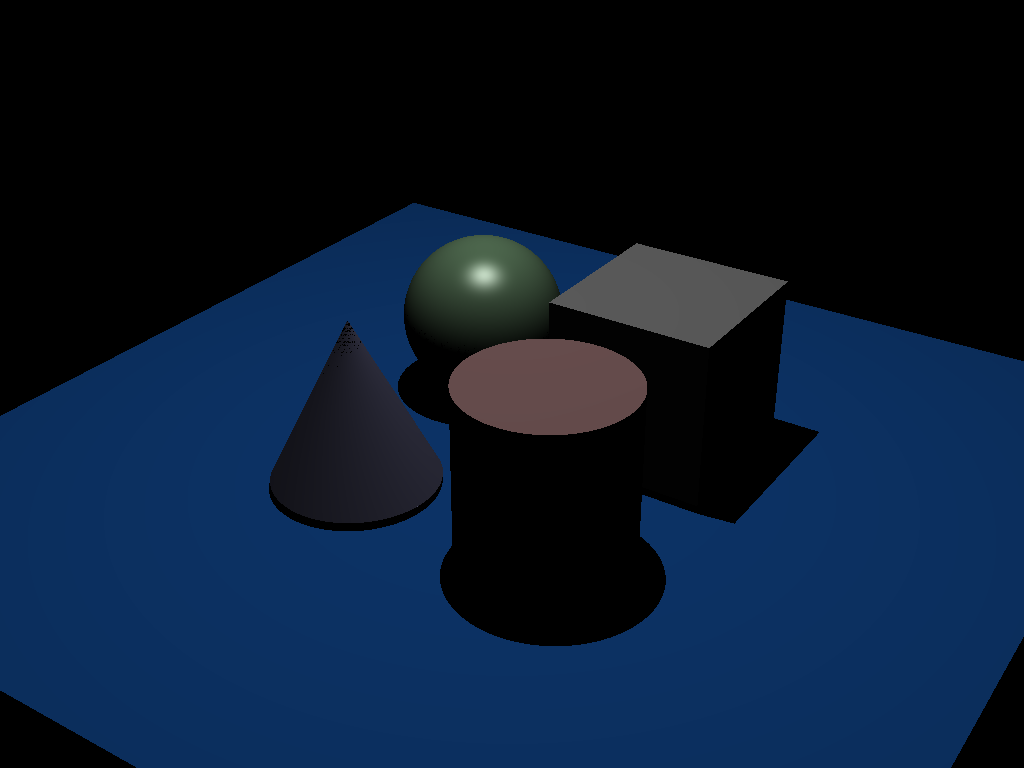
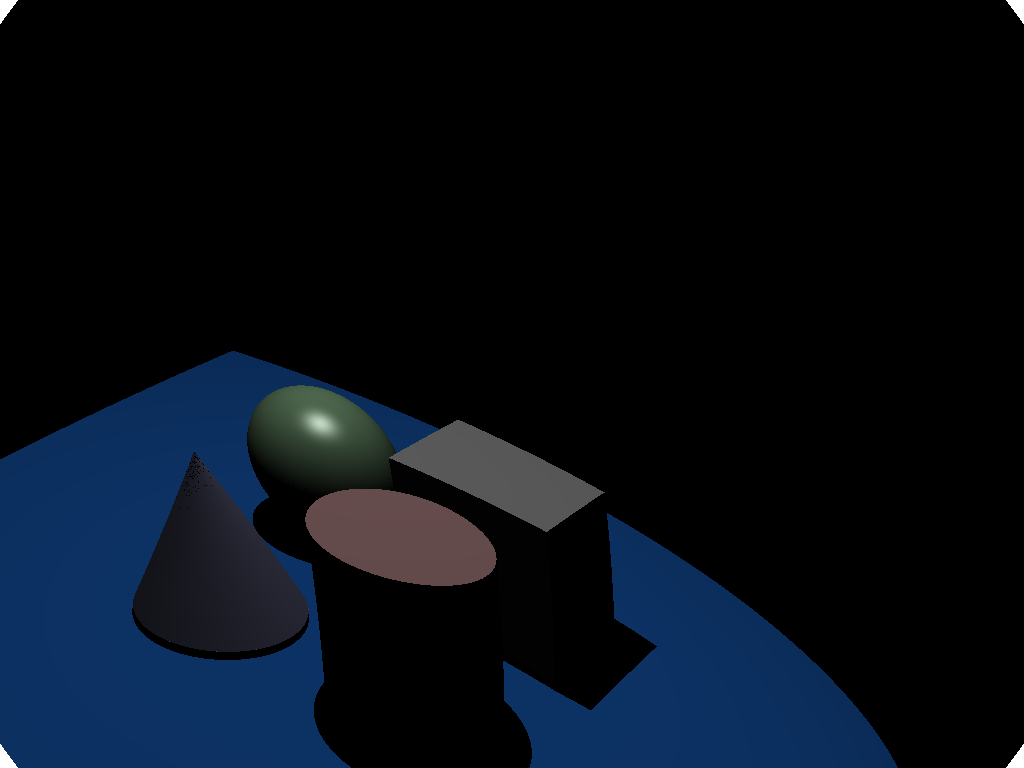
feat: lens assemblies rough draft completed

diff --git a/src/lenses/lensassemblies.cpp b/src/lenses/lensassemblies.cpp
@@ -1,0 +1,187 @@
+#include <algorithm>
+#include <cmath>
+#include <glm/glm.hpp>
+#include <iostream>
+#include <ostream>
+#include <stdlib.h>
+#include <tuple>
+#include <vector>
+
+// Lens constants
+typedef struct Lens {
+    float lensRadius;
+    float eta;
+    float thickness; // representing distance in assembly from previous element
+        // to this one
+} lens_t;
+
+lens_t globalLens1 = {0.2, 1.1, 0.5};
+// lens_t globalLens2 = {-0.5, 1.2, 0.5};
+std::vector<lens_t> lenses = {globalLens1};
+// std::vector<lens_t> lenses = {globalLens1, globalLens2};
+
+typedef struct Aperture {
+    float apertureRadius;
+} aperture_t;
+
+Aperture aperture = {0.5};
+
+/**
+ * @brief SphereIntersect: finds intersection points between a ray and radius
+ * 0.5 sphere
+ * @param point: the starting point of the ray in object space
+ * @param direction: the direction of the ray in object space
+ * @return the t value for the parameterized ray that intersects the sphere
+ */
+std::vector<float> LensSphereIntersect(glm::vec3 point, glm::vec3 direction,
+                                       float radius, float zOffset) {
+    // define useful constants
+    float px = point[0], py = point[1],
+        pz = point[2] - zOffset; // offset as moved back along z axis starting
+        // position essentially
+
+    float dx = direction[0], dy = direction[1], dz = direction[2];
+    // std::cout << px << std::endl;
+    // std::cout << py << std::endl;
+    // std::cout << pz << std::endl;
+    // std::cout << "just did p" << std::endl;
+    // std::cout << dx << std::endl;
+    // std::cout << dy << std::endl;
+    // std::cout << dz << std::endl;
+    // std::cout << "just did d" << std::endl;
+    // collect all t values
+    std::vector<float> tValues = {};
+
+    // define quadratic formula values and the discriminant
+    float A = dx * dx + dy * dy + dz * dz;
+    float B = 2.f * px * dx + 2.f * py * dy + 2.f * pz * dz;
+    float C = px * px + py * py + pz * pz - (radius * radius);
+    float D = B * B - 4.f * A * C;
+    if (D > 0) { // two intersection points
+        float t1 = (-B + sqrt(D)) / (2.f * A);
+        float t2 = (-B - sqrt(D)) / (2.f * A);
+        // first three cases should never happen here
+        if (t1 < 0.f && t2 < 0.f) {
+        } else if (t1 < 0.f) {
+            tValues.push_back(t2);
+        } else if (t2 < 0.f) {
+            tValues.push_back(t1);
+        } else { // both intersections are valid
+            tValues.push_back(t1);
+            tValues.push_back(t2);
+        }
+    } else if (D < 0) { // zero intersection points (should not happen here)
+    } else {            // D = 0 // one intersection point
+        float potentialT = (float)(-B) / (2 * A);
+        if (potentialT >= 0.f) // ensure nonegative t value
+            tValues.push_back(potentialT);
+    }
+    return tValues;
+}
+
+/**
+ * @brief SphereNormal: computes the normal vector for a sphere in object space
+ * @param intersection: the intersection point in object space
+ * @return a normal vector to the object in object space
+ */
+glm::vec4 LensSphereNormal(glm::vec3 intersection) {
+    // compute and return the object normal
+    return glm::vec4(2.f * intersection[0], 2.f * intersection[1],
+                     2.f * intersection[2], 0.f);
+}
+
+// refraction and direction transmittance
+glm::vec3 refraction(glm::vec3 incidentVector, glm::vec3 normalVector,
+                     float etaRatio, float cosineThetaIncident,
+                     float cosineThetaTransmit) {
+    glm::vec3 transmittedDirection =
+        etaRatio * -incidentVector +
+                                     (etaRatio * cosineThetaIncident - cosineThetaTransmit) * normalVector;
+    return transmittedDirection;
+}
+
+std::tuple<glm::vec3, glm::vec3, bool>
+computeLensAdjustedDirection(glm::vec3 initialDirection,
+                             glm::vec3 initialPosition, Lens &lens,
+                             float cumulativeThickness) {
+    // get values for refraction purposes
+    // std::cout << initialDirection.x << std::endl;
+    // std::cout << initialDirection.y << std::endl;
+    // std::cout << initialDirection.z << std::endl;
+    // std::cout << "" << std::endl;
+    // std::cout << initialPosition.x << std::endl;
+    // std::cout << initialPosition.y << std::endl;
+    // std::cout << initialPosition.z << std::endl;
+    // std::cout << "" << std::endl;
+
+    std::vector<float> tValues =
+        LensSphereIntersect(initialPosition, initialDirection, lens.lensRadius,
+                                                     cumulativeThickness + lens.thickness);
+    // std::cout << tValues.size() << std::endl;
+    // std::cout << tValues[0] << std::endl;
+    // std::cout << tValues[1] << std::endl;
+
+    if (tValues.size() > 0) {
+        float t = lens.lensRadius > 0
+                      ? *std::max_element(tValues.begin(), tValues.end())
+                      : *std::min_element(tValues.begin(), tValues.end());
+        glm::vec3 intersectionPoint = initialDirection * t + initialPosition;
+        // std::cout << "t:" << t << std::endl;
+        glm::vec3 lensNormal = LensSphereNormal(
+            intersectionPoint - (cumulativeThickness + lens.thickness));
+        // std::cout << "lensnormal" << std::endl;
+        // std::cout << lensNormal.x << std::endl;
+        // std::cout << lensNormal.y << std::endl;
+        // std::cout << lensNormal.z << std::endl;
+
+        float cosineThetaIncident = glm::dot(initialDirection, lensNormal);
+        float etaRatio =
+            1.0 / lens.eta; // implicit assumption going from air to lens
+
+        // use Snell's law to get the new direction (see citation)
+        float sineSquaredThetaIncidentInitial =
+            std::max(0.f, 1.f - cosineThetaIncident * cosineThetaIncident);
+        float sineSquaredThetaIncidentAdjusted =
+            etaRatio * etaRatio * sineSquaredThetaIncidentInitial;
+        float cosineThetaTransmit = std::sqrt(1 - sineSquaredThetaIncidentAdjusted);
+        // std::cout << "\nangles" << std::endl;
+
+        // std::cout << cosineThetaIncident << std::endl;
+        // std::cout << sineSquaredThetaIncidentInitial << std::endl;
+        // std::cout << sineSquaredThetaIncidentAdjusted << std::endl;
+        // std::cout << cosineThetaTransmit << std::endl;
+        // std::cout << "angles\n" << std::endl;
+
+        glm::vec3 newDirection = refraction(
+            glm::normalize(-initialDirection), glm::normalize(lensNormal), etaRatio,
+            cosineThetaIncident, cosineThetaTransmit);
+        return {newDirection, intersectionPoint, true};
+    }
+    return {glm::vec3(0), glm::vec3(0), false};
+}
+
+std::tuple<glm::vec3, glm::vec3, bool>
+computeLensesAdjustedDirection(glm::vec3 initialDirection) {
+    glm::vec3 currentDirection = initialDirection;
+    glm::vec3 currentPosition = glm::vec3(0);
+    float cumulativeThickness = 0;
+    for (lens_t &lens : lenses) {
+        auto [nextDirection, nextPosition, stillInLens] =
+            computeLensAdjustedDirection(currentDirection, currentPosition, lens,
+                                                                                       cumulativeThickness);
+        if (!stillInLens)
+            return {glm::vec3(0), glm::vec3(0), false};
+        currentDirection = nextDirection;
+        currentPosition = nextPosition;
+        cumulativeThickness += lens.thickness;
+    }
+    return {currentDirection, currentPosition, true};
+}
+
+// Citations
+
+// refraction:
+// https://www.pbr-book.org/3ed-2018/Reflection_Models/Specular_Reflection_and_Transmission#Refract
+
+// lenses: http://mentallandscape.com/Papers_siggraph95.pdf and
+// https://www.pbr-book.org/3ed-2018/Camera_Models/Realistic_Cameras#fragment-RealisticCameraPrivateMethods-2

diff --git a/src/raytracer/raytracer.cpp b/src/raytracer/raytracer.cpp
@@ -1,5 +1,6 @@
 #include "raytracer.h"
 #include "../singleraytrace/tracesingleray.h"
+#include "lenses/lenseassemblies.h"
 #include "raytracescene.h"
 #include <cfloat>
 #include <cmath>
@@ -26,6 +27,17 @@ void RayTracer::render(RGBA *imageData, const RayTraceScene &scene) {
     // using aspect ratio to get the width of the view plane
     float viewPlaneWidth = scene.getCamera().getAspectRatio() * viewPlaneHeight;
 
+    auto [newDirection, newPosition, isHere] =
+        computeLensesAdjustedDirection(glm::vec3(0.1, 0.1, 1));
+    // std::cout << newDirection.x << std::endl;
+    // std::cout << newDirection.y << std::endl;
+    // std::cout << newDirection.z << std::endl;
+    // std::cout << "" << std::endl;
+    // std::cout << newPosition.x << std::endl;
+    // std::cout << newPosition.y << std::endl;
+    // std::cout << newPosition.z << std::endl;
+    // std::cout << "" << std::endl;
+
     // iterate through each pixel and trace a ray
     for (int j = 0; j < scene.height(); ++j) {
         for (int i = 0; i < scene.width(); ++i) {
@@ -42,16 +54,28 @@ void RayTracer::render(RGBA *imageData, const RayTraceScene &scene) {
             glm::vec4 eye = glm::vec4(0, 0, 0, 1);
             glm::vec4 direction = uvk - eye;
 
-            // transform the ra into world space from camera space
-            glm::vec4 transformedEye = scene.getCamera().getViewMatrixInverse() * eye;
-            // FIX FROM INTERSECT MENTOR MEETING: not truncating view matrix inverse
-            // here
-            glm::vec4 transformedD =
-                scene.getCamera().getViewMatrixInverse() * direction;
+            direction.z *= -1;
+            auto [newDirection, newPosition, inLens] =
+                computeLensesAdjustedDirection(direction);
+            // std::cout << inLens << std::endl;
+            if (inLens) {
+                direction = glm::vec4(newDirection, 0);
+                direction.z *= -1;
+                eye = glm::vec4(newPosition, 1);
+                eye.z *= -1;
+                // transform the ray into world space from camera space
+                glm::vec4 transformedEye =
+                    scene.getCamera().getViewMatrixInverse() * eye;
+                glm::vec4 transformedD =
+                    scene.getCamera().getViewMatrixInverse() * direction;
 
-            // trace the ray and set the correct image value
-            imageData[j * scene.width() + i] =
-                traceRay(transformedEye, transformedD, scene, m_config, 0);
+                // trace the ray and set the correct image value
+                imageData[j * scene.width() + i] =
+                    traceRay(transformedEye, transformedD, scene, m_config, 0);
+            } else {
+                // std::cout << "Here" << std::endl;
+                imageData[j * scene.width() + i] = RGBA{255, 255, 255};
+            }
         }
     }
 }

diff --git a/src/lenses/lenseassemblies.h b/src/lenses/lenseassemblies.h
@@ -1,0 +1,10 @@
+#ifndef LENSEASSEMBLIES_H
+#define LENSEASSEMBLIES_H
+
+#include <glm/glm.hpp>
+#include <tuple>
+
+std::tuple<glm::vec3, glm::vec3, bool>
+computeLensesAdjustedDirection(glm::vec3 initialDirection);
+
+#endif // LENSEASSEMBLIES_H
